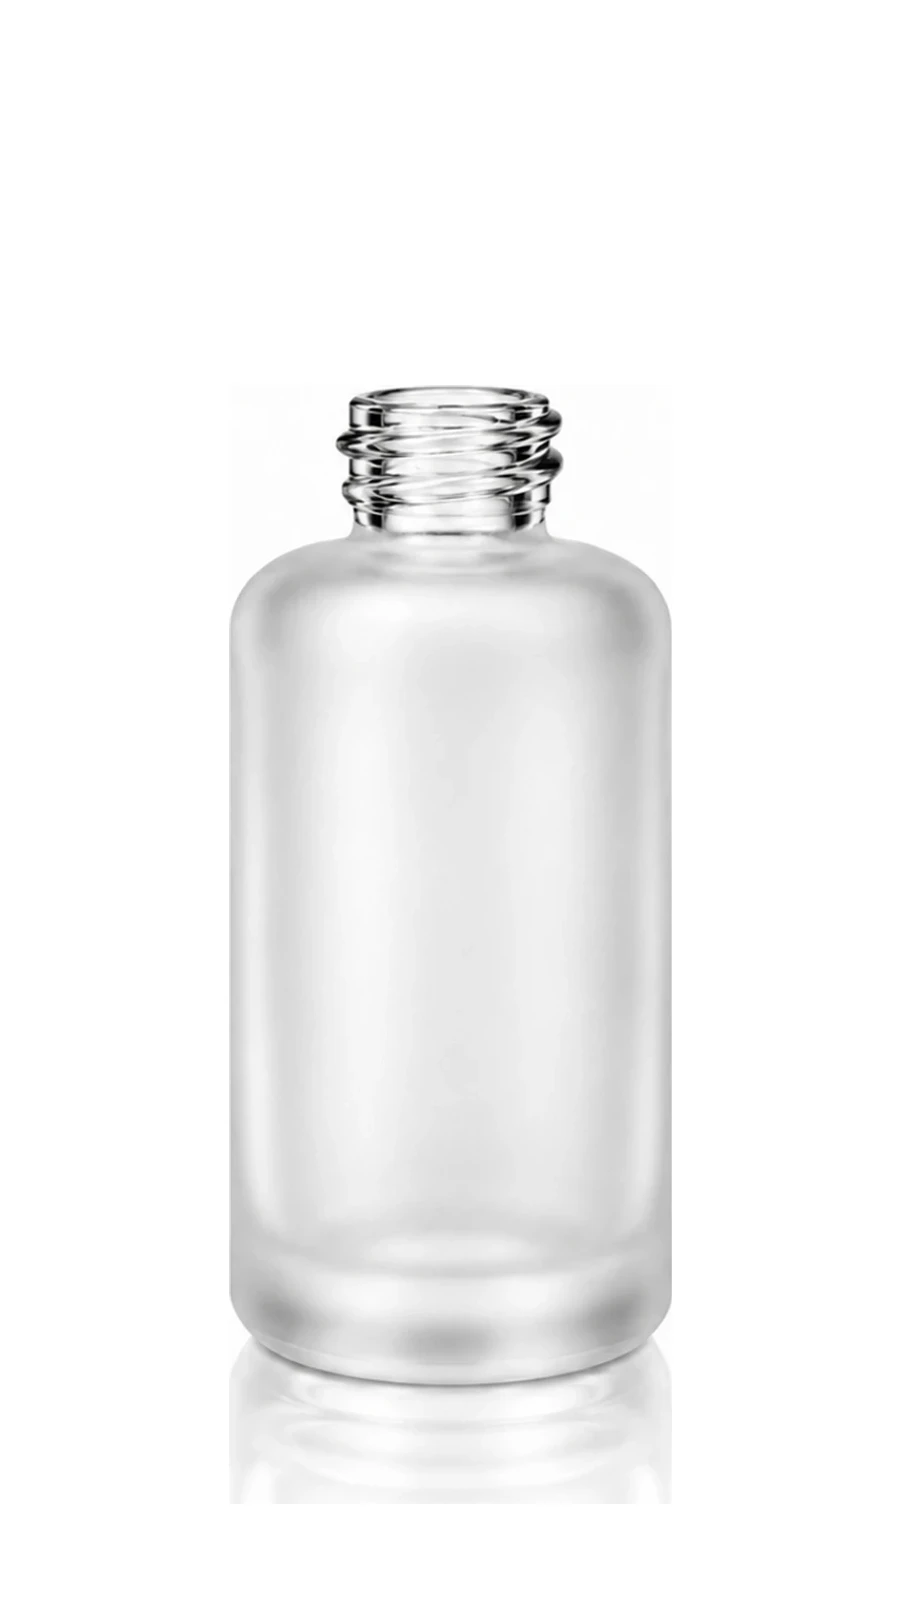
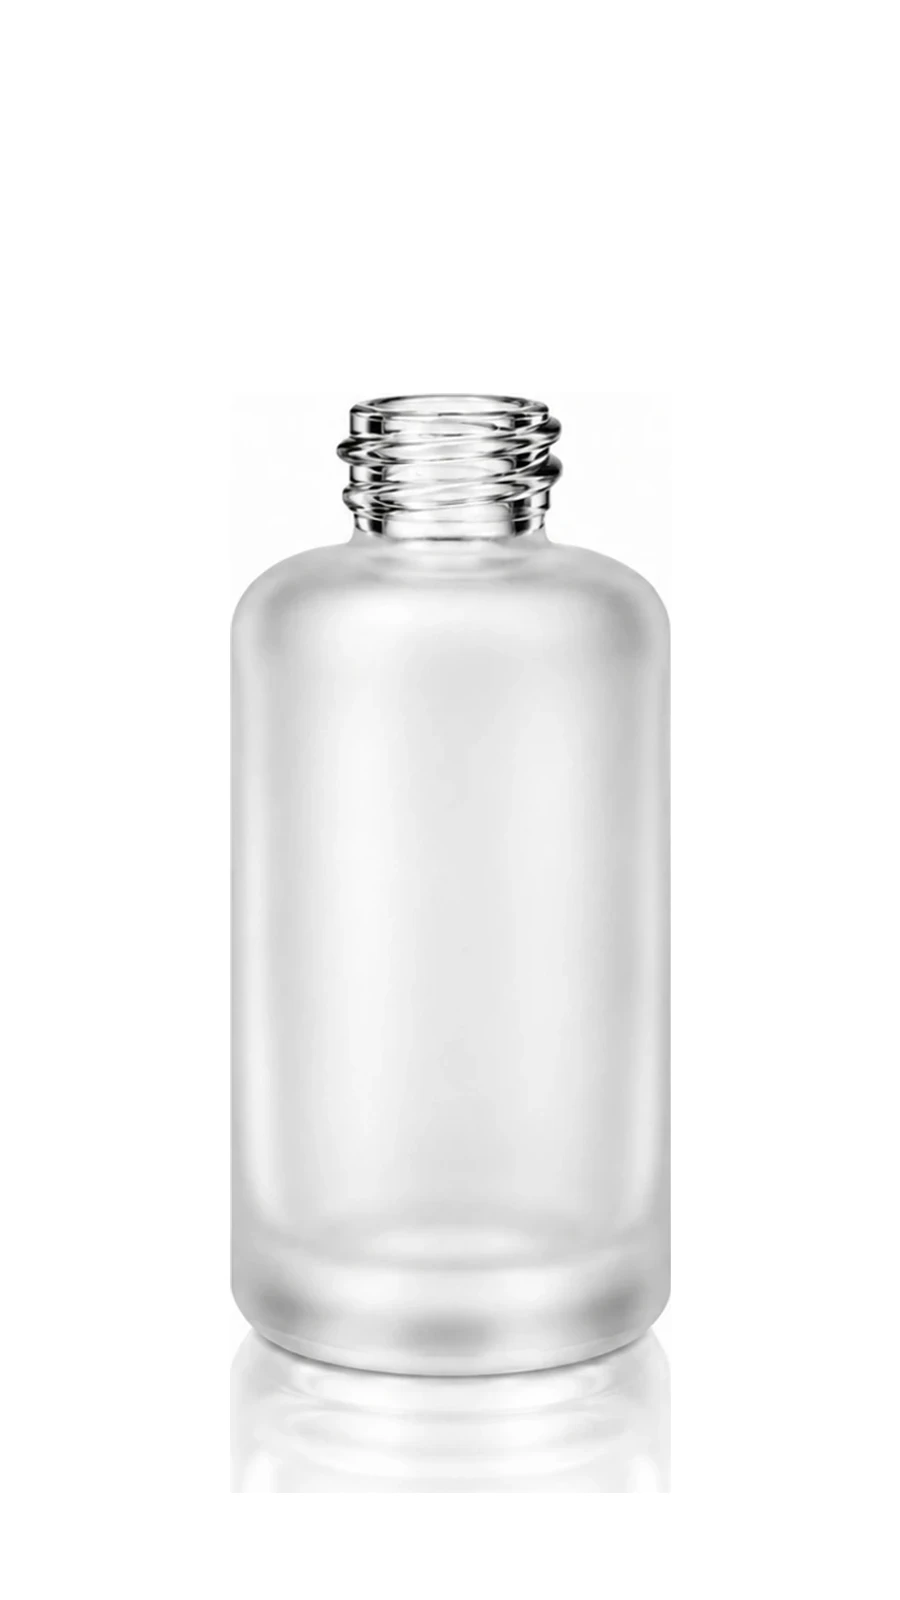
HOME 공정 모션: 장면 사진의 병 높이 · 폭을 기준병에 맞춤(전환 때 움찔함 없앰)

diff --git a/src/data/home.ts b/src/data/home.ts
@@ -56,7 +56,7 @@ export const processScene = {
   dropperCap: "dropperCap" as AssetId,
   dropperPipette: "dropperPipette" as AssetId,
   /** 라벨이 피펫을 가리는 구간(캔버스 높이 대비 %) — proc-label 실측 */
-  labelBand: { top: 43.4, bottom: 74.7 }, // proc-label(부식 후 라벨) 실측 695–1195행(2026-10-28 CALMING 라벨) — 라벨 이미지를 바꾸면 다시 잰다
+  labelBand: { top: 43.7, bottom: 74.7 }, // proc-label(부식 후 라벨) 실측 699–1195행(2026-10-28 CALMING 라벨, 높이 맞춤 후) — 라벨 이미지를 바꾸면 다시 잰다
   /** 체결 후 함께 등장하는 실제 제품 (기준병 양옆) */
   expandTo: ["YS-SRRR15-01_02", "YS-SRRR30-02_01", "YS-SRRR30-04_01", "YS-SRRR50-02_01"] as AssetId[],
 };

diff --git a/docs/decisions.md b/docs/decisions.md
@@ -159,6 +159,7 @@
 | 2026-10-21 | 정리 · 영상 | `/logo-check` · 미사용 코드(StageNotice · reference · about values/expertise · process onSite/additionalProcesses) 삭제. PROCESS 제목 영상 7MB(H.265 HDR) → 3.4MB(H.264): 8초 이후 · 화면에 보이던 1.25배 구간만 잘라 같은 화면 유지, 모든 브라우저 재생. 검색 노출 차단은 상업 사용 전까지 유지 |
 | 2026-10-21 | PRODUCT 필터 | 종류: GLASS BOTTLE → BOTTLE, JAR 추가(제품이 있어야 탭이 보임, 주소 값 glass-bottle은 유지). 용량(ml) 버튼 추가 — 그 종류 제품의 용량에서 자동 생성, ?ml= 주소에 남고 상세에서 돌아와도 유지 |
 | 2026-10-28 | HOME 공정 모션 사진 교체 | 코팅(노랑) · 코팅 후 인쇄(RETINOL) · 부식(무광) · 부식 후 라벨(CALMING) 4장 교체(생성 이미지, 1600×1600). 이전 원본은 자료/_보관/01_기준유리병/사진_2026-10-28. 어깨선 정렬 그대로, labelBand 43.4–74.7%로 다시 잼 |
+| 2026-10-28 | 공정 모션 장면 정렬 | 새 사진의 병 키가 1~2% 커서 장면 전환(투명→코팅, 인쇄→부식) 때 움찔함 → 기준병의 목 위 끝(394행) · 바닥 선(1362행)에 맞춰 세로 보정, 몸통 곧은 구간 폭 · 가운데도 맞춤(build-process-images.mjs FIT) |
 
 ## 브랜드 색 기준 (잠정)
 
